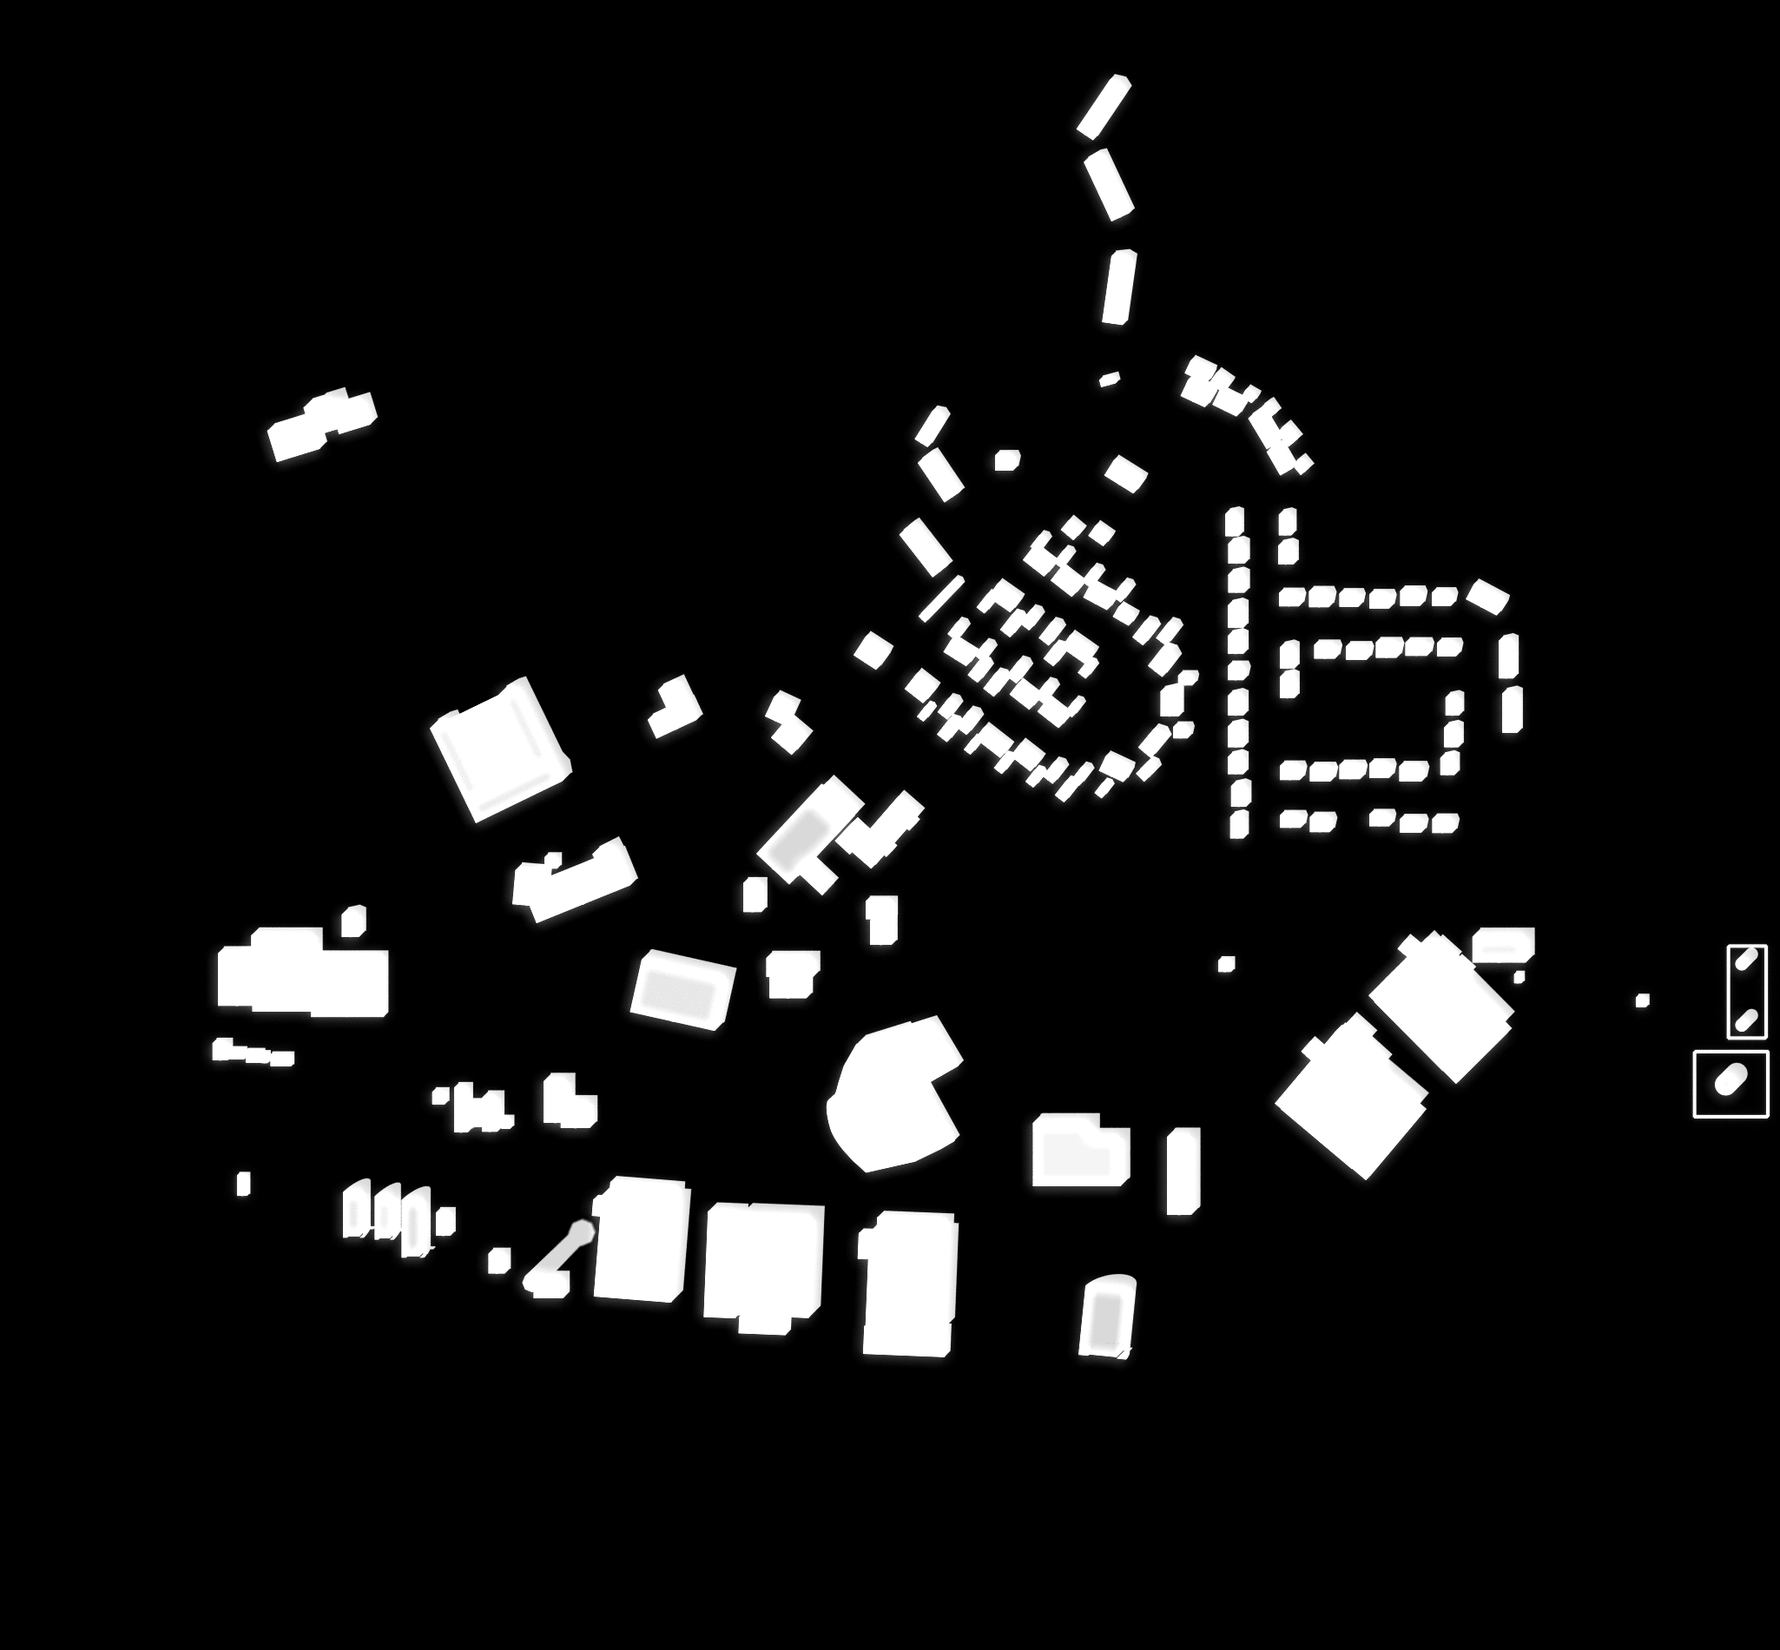
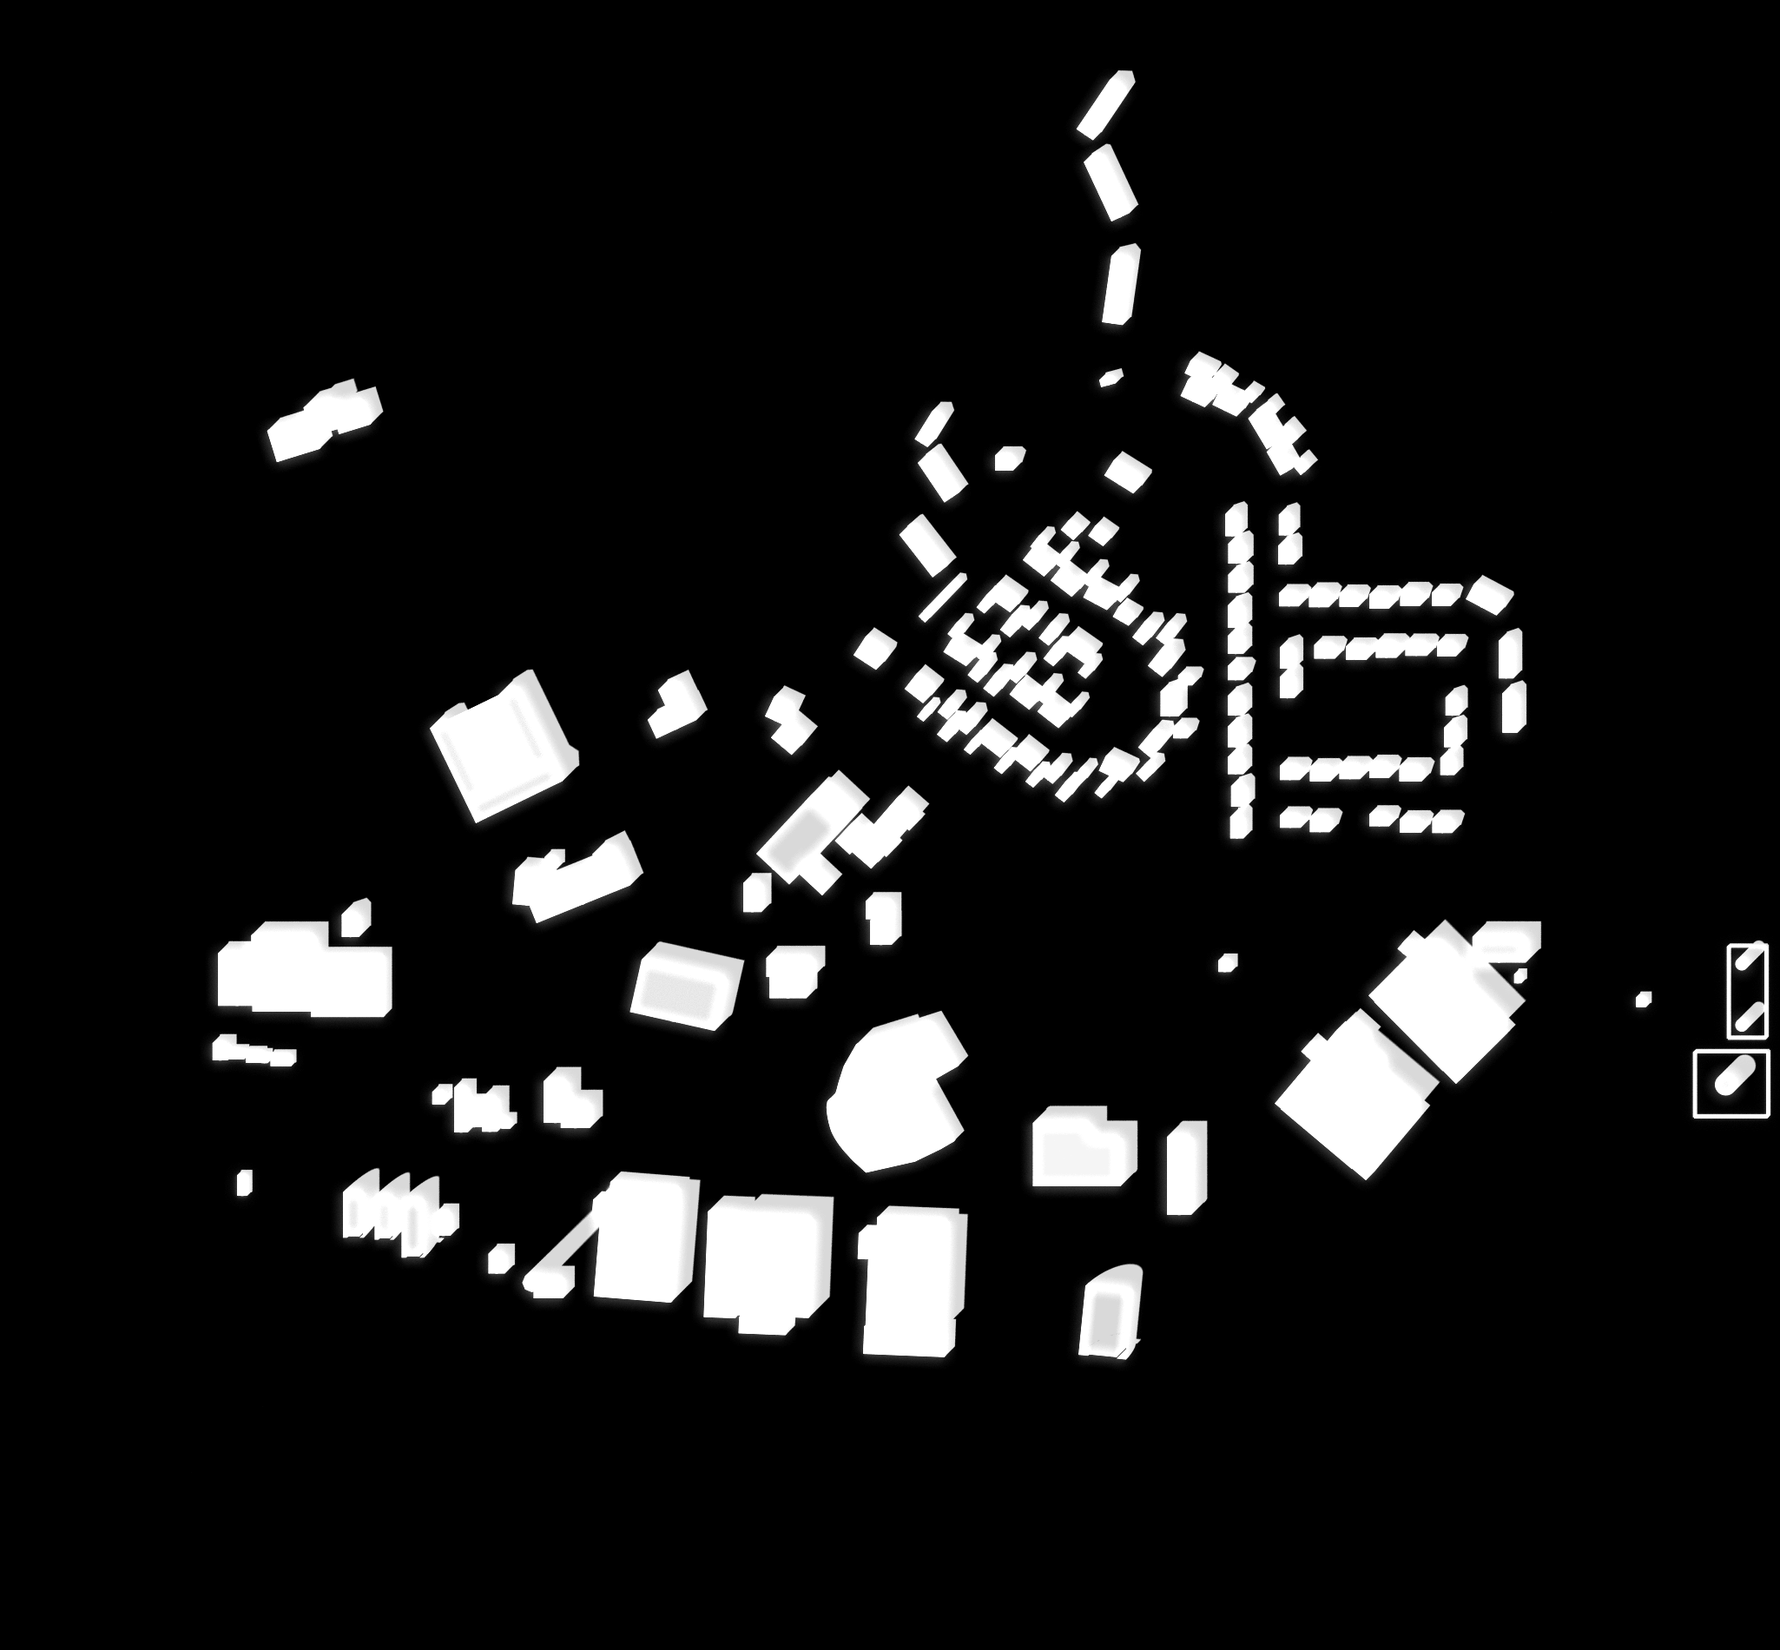
Traffic: lower late-afternoon sun, 30 degrees up, so shadows read from the circuit (TR-134)
The 3D view's sun drops from 45 to 30 degrees (same 225 degree bearing); the sun light, the ground's slope shading and the baked ground shadows all use it, so shadows run about 1.7 times as long as the buildings are tall.

Patrick 10 Oct: card "Lower sun".

diff --git a/src/modules/traffic/view3d.js b/src/modules/traffic/view3d.js
@@ -88,8 +88,12 @@ export const FLAT_GROUND_BOXES = Object.freeze([
   Object.freeze({ minX: TIGHT_CENTER_FT.x - TIGHT_SPAN_FT / 2, maxX: TIGHT_CENTER_FT.x + TIGHT_SPAN_FT / 2, minY: TIGHT_CENTER_FT.y - TIGHT_SPAN_FT / 2, maxY: TIGHT_CENTER_FT.y + TIGHT_SPAN_FT / 2 }),
   BASE_BOX_FT,
 ]);
-/** Towards the sun for the ground's slope shading: TR-34's sun, from 225 degrees true and 45 degrees up (x east, y north, z up). */
-const SUN_FROM = Object.freeze({ x: -0.5, y: -0.5, z: Math.SQRT1_2 });
+/** Towards the sun for the ground's slope shading: the scene's sun (SUN_AZIMUTH_DEG, SUN_ELEVATION_DEG below), x east, y north, z up. */
+const SUN_FROM = Object.freeze({
+  x: Math.sin((225 * Math.PI) / 180) * Math.cos(Math.PI / 6),
+  y: Math.cos((225 * Math.PI) / 180) * Math.cos(Math.PI / 6),
+  z: Math.sin(Math.PI / 6),
+}); // 225 degrees, 30 up: must match SUN_AZIMUTH_DEG and SUN_ELEVATION_DEG
 
 /** Camera limits. pitch is degrees from straight down (0 looks down, 90 is level); zoom is pixels to 1,000 ft. */
 export const CAMERA_LIMITS = Object.freeze({ pitch: [0, 85], zoom: [0.3, 4000] });
@@ -1405,9 +1409,12 @@ function paintBaseAirfield(ctx) {
   ctx.restore();
 }
 
-/** Sun direction for the Traffic scene: a fixed mid-afternoon summer sun from the south-west, 45° above the horizon. */
+/**
+ * Sun direction for the Traffic scene: a fixed late-afternoon sun from the south-west, 30° above the horizon, so shadows run about
+ * 1.7 times as long as the buildings are tall (Patrick, 10 Oct: card "Lower sun"; was 45°, TR-34; TR-134).
+ */
 export const SUN_AZIMUTH_DEG = 225;
-export const SUN_ELEVATION_DEG = 45;
+export const SUN_ELEVATION_DEG = 30;
 
 /**
  * Traffic's lighting: one warm DirectionalLight (sun) and one HemisphereLight (sky blue above, prairie brown below).

diff --git a/tools/blender/bake-shadows.py b/tools/blender/bake-shadows.py
@@ -1,7 +1,7 @@
 # Bakes the buildings' shadows onto the ground for Traffic's 3D view (TR-133; Patrick, 10 Oct: "I wanna start with shadows").
 # Run headless: blender -b -P tools/blender/bake-shadows.py -- buildings.obj out.png [samples]
-# buildings.obj comes from tools/blender/export-buildings.mjs (feet from the ARP, z up). The sun is the 3D view's own (TR-34): from
-# 225 degrees true, 45 degrees up, its edge softened to 1.5 degrees (an estimate; the real sun is 0.5). Two bakes onto a flat ground
+# buildings.obj comes from tools/blender/export-buildings.mjs (feet from the ARP, z up). The sun is the 3D view's own (view3d.js SUN_AZIMUTH_DEG and
+# SUN_ELEVATION_DEG; TR-134): from 225 degrees true, 30 degrees up, its edge softened to 1.5 degrees (an estimate; the real sun is 0.5). Two bakes onto a flat ground
 # sheet over the base: direct sunlight (the cast shadows) and ambient occlusion within 30 ft (the darkening where a wall meets the
 # ground). Written as one grey picture of darkness (black = untouched ground, white = darkest), 2 ft a pixel, with its corners in
 # the file name's .json beside it.
@@ -14,7 +14,7 @@ obj_path, out_png = argv[0], argv[1]
 samples = int(argv[2]) if len(argv) > 2 else 32
 AREA = dict(x0=-1200.0, x1=2900.0, y0=1300.0, y1=5100.0)  # the flight line and the base, ft from the ARP
 FT_PER_PX = 2.0
-SUN_AZ, SUN_EL, SUN_SOFT_DEG = 225.0, 45.0, 1.5
+SUN_AZ, SUN_EL, SUN_SOFT_DEG = 225.0, 30.0, 1.5
 AO_DISTANCE_FT = 30.0
 
 bpy.ops.wm.read_factory_settings(use_empty=True)

diff --git a/docs/modules/traffic/decisions.md b/docs/modules/traffic/decisions.md
@@ -43,7 +43,7 @@ Each row is one decision. "Rule" is the decision as it now reads (reworded where
 | TR-31 | Breakout altitude approved at 4,500 ft MSL (up from SMM 3,500) for vertical separation. | D413 | Breakout at 4,500 ft: TR-R34 (`pf/reset/1-requirements/requirements.md:207`), TR-Q20 (`pf/reset/1-requirements/questions.md:106`), Patrick-ratified (`archive/docs/records/plan-decisions.md:223`). 4,500 sits inside the orders' 3,500 to 4,500 band (`pf/manuals/text/wfo-al6.2.txt:1365-1375`). The in-app tooltip still says 3,500 (`src/modules/traffic/aircraft.js:370`), a text fix. |
 | TR-32 | 3D camera bar (Fit, High look-down, Top-down, Tower, Chase, Cockpit, Padlock runway), Follow menu, High/Performance switch; graphicsQuality defaults 'low'; aircraft row click follows. | D430 | The six cameras, Follow menu and High/Performance switch with Performance default are what Patrick kept "as built": TR-R23 (`pf/reset/1-requirements/requirements.md:234`), TR-Q17 (`pf/reset/1-requirements/questions.md:103`). Overlap with the map controls and the duplicate Fit are build fixes (TR-R29, `pf/reset/1-requirements/requirements.md:250`). Built: `src/modules/traffic/defaults.js:34`, `src/modules/traffic/camera-bar.js:2`. |
 | TR-33 | Glass Palace, Rec Centre and Hangars 5-6 traced on satellite footprints; visual circuit landmarks added (Window Farm, Sukanen Ship, Fiat Farm, Arrow Tree Rows). | D431 | Traced buildings and the circuit landmarks (Window Farm, Sukanen Ship and so on) are part of "all 3D scenery stays": TR-R23 (`pf/reset/1-requirements/requirements.md:234`). Built: `src/modules/traffic/landmarks3d.js:13-16`. |
-| TR-34 | Traffic 3D uses one fixed sun from the south-west (225 degrees, 45 degrees up) and hemisphere ambient, no shadow maps. | D432 | Fixed south-west sun, no shadow maps: the sun is named in TR-R23 (`pf/reset/1-requirements/requirements.md:234`). Built: `src/modules/traffic/view3d.js:852`. |
+| TR-34 | Traffic 3D uses one fixed sun from the south-west (225 degrees; 30 degrees up since TR-134, was 45) and hemisphere ambient, no shadow maps (the buildings' shadows are baked, TR-133). | D432 | Fixed south-west sun, no shadow maps: the sun is named in TR-R23 (`pf/reset/1-requirements/requirements.md:234`). Built: `src/modules/traffic/view3d.js:852`. |
 | TR-35 | Windsocks point downwind and extend with wind speed (hanging at calm, full at 15 kt); Highway 2 traced as a ground ribbon. | D433 | Windsocks that hang at calm and fill with wind, and Highway 2: both named in TR-R23 (`pf/reset/1-requirements/requirements.md:234`). Built: `src/modules/traffic/landmarks3d.js:209`, `src/modules/traffic/landmarks3d.js:170`. |
 | TR-36 | Student Barracks, Glass Palace, Hangars 5 and 6, Rec Centre moved and rotated to satellite footprints; baseball diamond deleted. | D434 | Building positions traced from Patrick's marked screenshot are "as built" (TR-Q17, `pf/reset/1-requirements/questions.md:103`). Log-only row, not in the chronological register (`archive/docs/records/decisions-log.md:295`; `pf/reset/4-decisions/agents/traffic.md:111`). |
 | TR-37 | Dual pointerdown and click listeners with 250 ms debounce on playback, layout and aircraft buttons; aircraft.js write() updates detail text in place. | D437 | Buttons that respond on the first click, with a short debounce so a press is not counted twice: ALL-R8 buttons that work (`pf/reset/1-requirements/requirements.md:28`). Keyboard still works through the click handler. 250 ms is a design value, not a time gate. Built: `src/modules/traffic/playback-bar.js:134-163`. Log-only row (`archive/docs/records/decisions-log.md:298`). |
@@ -138,7 +138,8 @@ Each row is one decision. "Rule" is the decision as it now reads (reworded where
 | TR-130 | The paved surface is built, with straight edges: 29L and 29R (160 ft, bar to bar), 03/21 (100 ft) and the taxiways (their measured widths plus 4 ft, on TR-129's re-centred lines, carried to the runway centrelines) as straight strips; Echo 50 ft, centred on its old concrete (it was 30 ft off; old concrete about 60 ft wide, measured on the photo); the ramp and the Snowbirds apron from TR-129's trace, straightened to about 10 ft, with Patrick's marked edges: the ramp's north edge along the hangar fronts and up into the bays between them, its south edge one straight line, and the areas behind Hangar 4 and behind the Snowbirds hangar removed; then every junction filleted with a 60 ft radius. Built by a script (Shapely). | TR-129's pixel-traced outline, edges following the photo | Patrick 10 Oct: "the edges of the taxiways and runways should be straight lines. check all of them", "make echo be in the middle of it. make the edges where the red is and get rid of the stuff marked in blue behind the hangar". |
 | TR-131 | Taxiways fitted to their concrete, ramp taxilines, tidier surface, 29R's aiming point. (1) Each taxiway centreline is fitted to its concrete on Esri's photo: the pavement's middle found every 25 ft and a straight line fitted per leg (several legs had been turned a few degrees, up to 50 ft off at one end); the surface's strips and the yellow lines both use them. (2) Added from the photo trace: the two holding pads beside F north of the 03/21 end, and the wide corner by the 11L end. (3) The ramp's yellow taxilines from Patrick's red flow (two lanes, a crossover at the west end fed from A and C, both running into the curve from G down to D), pinned to Hangars 1 to 4 on his photo (about ±20 ft; Esri shows no paint there), smoothed. (4) Behind Hangar 5 and the Snowbirds hangar: nothing north-west of the line along their back walls; narrow juts there removed; the isolated strip and pad south-east of the Snowbirds hangar ("H") dropped. (5) 29R/11L uses 29L's end layout: aiming point at 1,000 ft (976 ft past the bar) and touchdown bars at 487, 1,467, 1,956 and 2,444 ft (was 1,308 ft and 490, 981, 1,963, 2,453, misread off the photo). | TR-129/128 lines and 29R's photo-read aiming point | Patrick 10 Oct: "make all the yellow lines join up, the flow is in red", "get rid of the extra tarmac behind these hangars and the random jut", "those white strips are 1000 feet ... the threshold starts same spot for 29". |
 | TR-132 | Basic windows and doors on the hangars and buildings (`facade3d.js`), each a thin box proud of the wall, all of a group's in two instanced draw calls. Hangar annexes: on the side facing the ramp (unless that side is against the hangar), a long window band each storey with mullions every 8 ft and two doors; other free sides get windows. Hangars 1 to 3 and 5 to 6: a row of high windows under the roof on the walls not taken by the big doors or annexes, and a person door. The hall, the Canex, Medical and Shipping and Receiving, the rec centre and the plain flight-line building, and all 154 base buildings: windows on every wall (offices 4 by 4.5 ft every 10 ft, a row each 12 ft storey; houses 3.5 by 4 ft every 12 ft) and a door on the south-facing side. About 2,500 windows and 180 doors. Every size is an estimate. | Plain walls (except the Mess and the barracks) | Patrick 10 Oct: "Add basic detail to all of the hangars and buildings - doors/windows/realistic features. the ramp-facing sides of the annexes of the hangars have long windows. two doors on each facing the ramp. all the base bldgs should have more detail too". |
-| TR-133 | The buildings' shadows on the ground are baked in Blender (free, installed 10 Oct) and drawn as one see-through dark sheet over the photo and the runway paint, under the buildings. `tools/blender/export-buildings.mjs` exports the airfield and base buildings from the same code the 3D view draws them with; `tools/blender/bake-shadows.py` (run headless) lights them with the 3D view's own sun (TR-34: from 225 degrees, 45 degrees up; edge softened to 1.5 degrees, an estimate) and bakes direct sunlight (cast shadows) and ambient occlusion within 30 ft (where walls meet the ground) onto the ground over the flight line and the base (x -1,200 to 2,900, y 1,300 to 5,100 ft), 2 ft a pixel, into `public/media/traffic-ground-shadows.png` (243 KB), drawn at 60% darkest (an estimate). Shown with the photo and buildings layers; nothing shows until the picture loads. Re-run both scripts when buildings change. | One sun and a sky light, no shadows | Patrick 10 Oct: "I wanna start with shadows but do all of that". |
+| TR-133 | The buildings' shadows on the ground are baked in Blender (free, installed 10 Oct) and drawn as one see-through dark sheet over the photo and the runway paint, under the buildings. `tools/blender/export-buildings.mjs` exports the airfield and base buildings from the same code the 3D view draws them with; `tools/blender/bake-shadows.py` (run headless) lights them with the 3D view's own sun (TR-34: from 225 degrees, 30 degrees up since TR-134; edge softened to 1.5 degrees, an estimate) and bakes direct sunlight (cast shadows) and ambient occlusion within 30 ft (where walls meet the ground) onto the ground over the flight line and the base (x -1,200 to 2,900, y 1,300 to 5,100 ft), 2 ft a pixel, into `public/media/traffic-ground-shadows.png` (243 KB), drawn at 60% darkest (an estimate). Shown with the photo and buildings layers; nothing shows until the picture loads. Re-run both scripts when buildings change. | One sun and a sky light, no shadows | Patrick 10 Oct: "I wanna start with shadows but do all of that". |
+| TR-134 | The 3D view's sun is lower: 30 degrees up (was 45), still from 225 degrees true, a late-afternoon sun, so shadows run about 1.7 times as long as the buildings are tall and read from the circuit. The sun light, the ground's slope shading and the baked shadows (TR-133, re-baked) all use it. | 45 degrees up | Patrick 10 Oct: the shadows were subtle with the 45 degree sun; card "Lower sun". |
 
 ## Old plan-doc items (Q59, Q74 to Q77)
 

diff --git a/docs/modules/traffic/plan.md b/docs/modules/traffic/plan.md
@@ -182,6 +182,6 @@ The three old task folders show about 120 unticked boxes; most are old acceptanc
 - [x] **Taxiways fitted to their concrete, ramp taxilines, Snowbirds tidy, 29R aiming point at 1,000 ft** (Patrick, 10 Oct; V2.229; TR-131). Seen from above in 3D. Unseen: low views.
 - [x] **Basic detail on every hangar and base building** (built V2.229, TR-132; seen from the ramp at an angle; unseen from street level) (Patrick, 10 Oct: "doors/windows/realistic features. the ramp-facing sides of the annexes of the hangars have long windows. two doors on each facing the ramp. all the base bldgs should have more detail too").
 - [ ] **CT-156 as a real 3D model file** (Patrick, 10 Oct: "what should we be using to draw/build the 3d models", card "Build our own"): install Blender (free, blender.org); script a starting CT-156 from our measurements and Patrick's photos, export a `.glb`, load it with three.js's own model loader with the code model as fallback; compare looks and frame time. Then the showpiece buildings the same way. Waiting on Patrick: install Blender.
-- [ ] **Blender improvements to the 3D world** (Patrick, 10 Oct: "I wanna start with shadows but do all of that"), in order: (1) baked shadows from the buildings onto the ground (built V2.230, TR-133; seen from above and at angles), and shading on the buildings (next); (2) one airfield surface texture with panel joints, tyre marks and paint wear; (3) showpiece buildings rebuilt in Blender with real roofs, recessed windows and Patrick's photos on the walls; (4) airfield furniture: runway, approach and PAPI lights, signs, trees, ramp vehicles, parked aircraft. Built by scripts in tools/blender/, repeatable.
+- [ ] **Blender improvements to the 3D world** (Patrick, 10 Oct: "I wanna start with shadows but do all of that"), in order: (1) baked shadows from the buildings onto the ground (built V2.230, TR-133; sun lowered to 30 degrees, TR-134; seen from above and at angles), and shading on the buildings (next); (2) one airfield surface texture with panel joints, tyre marks and paint wear; (3) showpiece buildings rebuilt in Blender with real roofs, recessed windows and Patrick's photos on the walls; (4) airfield furniture: runway, approach and PAPI lights, signs, trees, ramp vehicles, parked aircraft. Built by scripts in tools/blender/, repeatable.
 - [x] **VOR antenna in 3D** (Patrick, 10 Oct: "build a VOR antenna on this circle", camera parked on it; built V2.229; TR-119): hut, counterpoise disc and cone antenna on the hut west of the field. Sizes are estimates.
 - [ ] **Credit for the photo and height data in 3D** (found 10 Oct building TR-117): the credit line is hidden in 3D (`layout.js` setPhotoNote), so neither Esri's photo credit nor the elevation tiles' credit shows there. Waiting on Patrick: show it in 3D or not.
